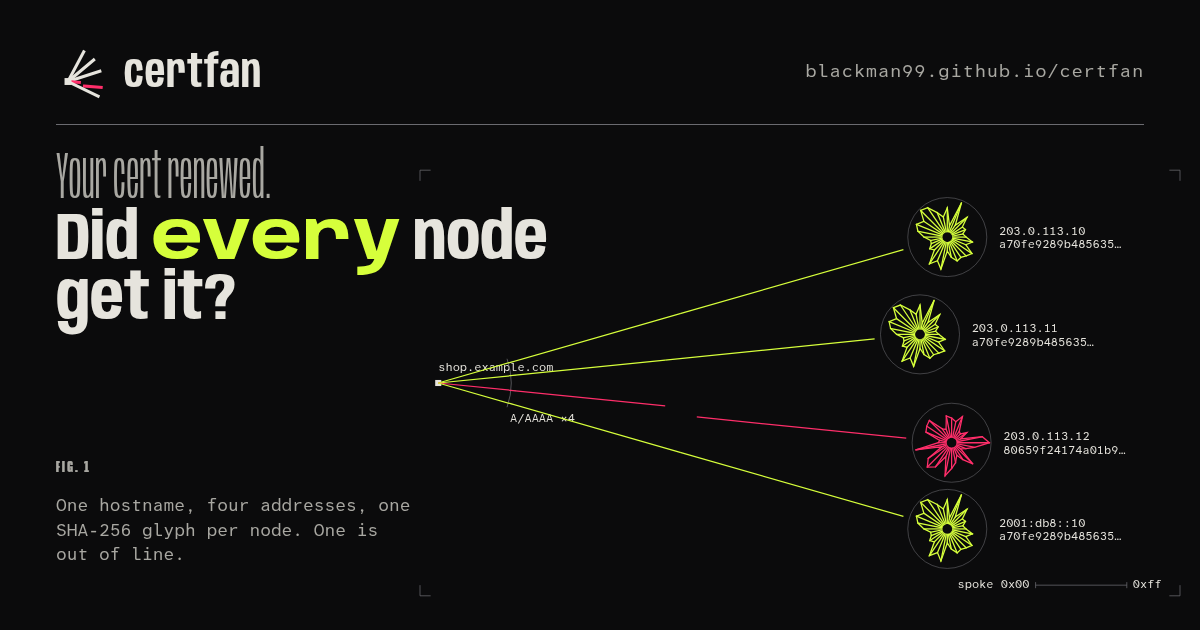
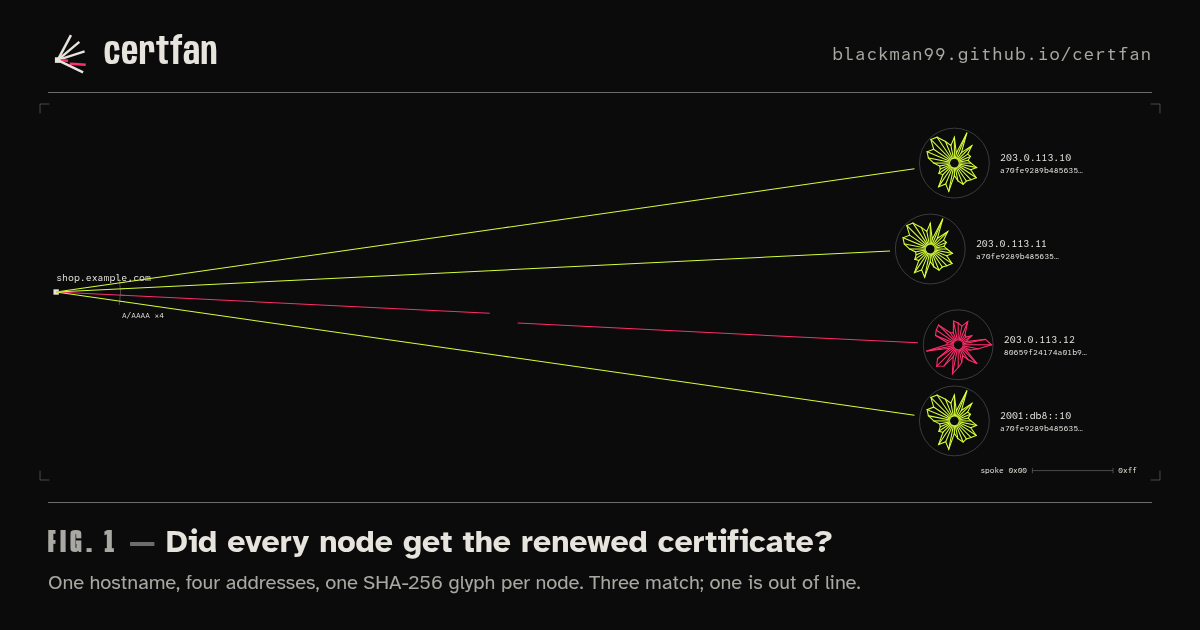
site: make Fig. 1 the first screen, replace the display headline with a figure caption
Structure only: the fan chart fills the first viewport on desktop and mobile; the h1 is now the
caption 'Fig. 1 — Did every node get the renewed certificate?' set in caption type below the plot.
OG / social preview follow the same structure.

diff --git a/site/style.css b/site/style.css
@@ -29,18 +29,8 @@ code,.mono{font-family:var(--mono);font-size:.92em}
 .top .meta{grid-column:4/10;margin:0;font:400 13px/1 var(--mono);color:var(--dim);letter-spacing:.04em}
 .top nav{grid-column:10/13;justify-self:end;display:flex;gap:28px;font-size:15px}
 
-/* lead */
-.lead{padding-top:36px;padding-bottom:20px;align-items:end}
-h1{grid-column:1/10;margin:0;font-family:var(--display);font-weight:300;line-height:.9;letter-spacing:-.005em;font-size:clamp(44px,6vw,96px)}
-h1 .l1{display:block;font-stretch:56%;font-weight:250;color:var(--dim)}
-h1 .l2{display:block;font-stretch:78%;font-weight:720}
-.every{display:inline-block;font-stretch:var(--every,100%);color:var(--lime);transition:font-stretch .9s cubic-bezier(.2,.7,.2,1)}
-.meta2{grid-column:10/13;justify-self:end;text-align:right;margin:0 0 6px;font-size:13px;line-height:1.5;color:var(--dim)}
-.cap .dek{font-size:17px;margin-bottom:16px}
-
 /* plates */
 .plate{margin:0;padding-top:28px;padding-bottom:48px;border-top:1px solid var(--graphite);position:relative}
-.lead+.plate{border-top:0}
 .cap{grid-column:1/4;font-size:15px;line-height:1.5;padding-right:8px}
 .cap p{margin:0 0 12px}
 .cap h2{font:700 30px/1.05 var(--display);font-stretch:96%;margin:0 0 14px}
@@ -55,11 +45,25 @@ h1 .l2{display:block;font-stretch:78%;font-weight:720}
 button{font:500 14px/1 var(--mono);color:var(--bone);background:none;border:1px solid var(--bone);padding:10px 14px;cursor:pointer;border-radius:0}
 button:hover{border-color:var(--lime);color:var(--lime)}
 
-/* fig 1 */
-#fan{aspect-ratio:1000/560}
-#fan svg,#lanes svg{display:block;width:100%;height:100%;overflow:visible}
+/* fig 1: the plate is the first screen */
+.hero{border-top:0;padding-top:16px;padding-bottom:40px;grid-template-rows:calc(100vh - 64px - 16px - var(--caph)) auto auto}
+@supports (height:100svh){.hero{grid-template-rows:calc(100svh - 64px - 16px - var(--caph)) auto auto}}
+.hero{--caph:158px}
+.hero>.plot{grid-column:1/13;grid-row:1;min-height:360px}
+#fan svg{position:absolute;inset:0;display:block;width:100%;height:100%;overflow:visible}
+#lanes svg{display:block;width:100%;height:100%;overflow:visible}
+.hero>.cap{grid-column:1/9;grid-row:2;padding-top:18px;border-top:1px solid var(--graphite)}
+.hero>.readout{grid-column:9/13;grid-row:2;padding-top:18px;border-top:1px solid var(--graphite);display:flex;gap:20px;align-items:flex-start;justify-content:space-between}
+.hero .verdict{margin:0;flex:1;max-width:44ch}
+.hero h1{margin:0 0 6px;font:700 19px/1.35 var(--text);letter-spacing:0}
+.fn-inline{font:800 19px/1 var(--display);font-stretch:52%;letter-spacing:.14em;text-transform:uppercase;color:var(--dim)}
+.dash{color:var(--graphite)}
+.hero .cap p{margin:0 0 8px;max-width:78ch}
+.hero .cap .one{font-size:16px}
+.hero .cap .read{font-size:14px;color:var(--dim)}
+.hero .legend{grid-row:3;grid-column:1/13}
 svg text{font-family:var(--mono);fill:var(--bone)}
-.legend{grid-column:4/13;list-style:none;margin:20px 0 0;padding:0;font-size:13px;display:grid;grid-template-columns:repeat(auto-fill,minmax(250px,1fr));column-gap:var(--gut);row-gap:6px}
+.legend{grid-column:4/13;list-style:none;margin:24px 0 0;padding:0;font-size:13px;display:grid;grid-template-columns:repeat(auto-fill,minmax(250px,1fr));column-gap:var(--gut);row-gap:6px}
 .legend li{display:grid;grid-template-columns:auto 1fr;column-gap:10px;border-top:1px solid #2a2a2d;padding-top:6px}
 .legend .ip{color:var(--bone)}
 .legend .hx{grid-column:1/3;color:var(--dim);word-break:break-all;letter-spacing:.02em}
@@ -110,15 +114,18 @@ footer .colo{grid-column:8/13;justify-self:end;font-size:13px}
   .brand{grid-column:1/7}
   .top .meta{display:none}
   .top nav{grid-column:7/13;gap:18px}
-  .lead{padding-top:36px}
-  h1{grid-column:1/13;font-size:clamp(40px,12.4vw,64px)}
-  .meta2{display:none}
+  .hero{--caph:150px;padding-top:8px;grid-template-rows:calc(100vh - 56px - 8px - var(--caph)) auto auto auto}
+  @supports (height:100svh){.hero{grid-template-rows:calc(100svh - 56px - 8px - var(--caph)) auto auto auto}}
+  .hero>.plot{min-height:420px;margin-bottom:0}
+  .hero>.cap{grid-column:1/13;grid-row:2;padding-top:14px}
+  .hero h1,.fn-inline{font-size:17px}
+  .hero .cap .one{font-size:15px}
+  .hero>.readout{grid-column:1/13;grid-row:3;border-top:0;padding-top:8px;flex-direction:column;gap:12px}
+  .hero .legend{grid-row:4}
   .cap,.plot,.legend{grid-column:1/13}
   .plate{padding-top:28px}
   .plot{margin-bottom:20px}
-  #fig1 .plot{order:-1}
   .cap+.plot{margin-top:8px}
-  #fan{aspect-ratio:360/400}
   .legend{order:1;grid-template-columns:1fr}
   #lanes{aspect-ratio:360/300}
   .matrix .how{display:none}

diff --git a/.og/og.html b/.og/og.html
@@ -1,35 +1,34 @@
 <!doctype html><html><head><meta charset="utf-8">
-<!-- Render: headless Chrome at 1200x630 (og-image / og-docs, ?docs for the docs variant) or 1280x640 (social preview). -->
+<!-- Render: headless Chrome at 1200x630 (og-image / og-docs, ?docs for the docs variant) or 1280x640 (social preview).
+     Same structure as the landing page: Fig. 1 fills the plate, caption below it (no display headline). -->
 <style>
 @font-face{font-family:"Anybody";src:url(../site/fonts/anybody-wdth.woff2) format("woff2");font-weight:100 900;font-stretch:50% 150%}
+@font-face{font-family:"AH";src:url(../site/fonts/atkinson-400.woff2) format("woff2");font-weight:400}
+@font-face{font-family:"AH";src:url(../site/fonts/atkinson-700.woff2) format("woff2");font-weight:700}
 @font-face{font-family:"AHM";src:url(../site/fonts/atkinson-mono-400.woff2) format("woff2")}
 html,body{margin:0;width:100vw;height:100vh;overflow:hidden;background:#0b0b0c;color:#e6e4dd}
 svg text{font-family:"AHM",monospace;fill:#e6e4dd}
-.brand{position:absolute;left:56px;top:48px;display:flex;align-items:center;gap:16px;font:650 46px/1 "Anybody";font-stretch:72%;letter-spacing:.02em}
-.brand img{width:52px;height:52px}
-.tag{position:absolute;right:56px;top:62px;font:400 18px/1 "AHM";color:rgba(230,228,221,.72);letter-spacing:.04em}
-h1{position:absolute;left:56px;top:150px;margin:0;font-family:"Anybody";line-height:.92;font-size:66px}
-h1 .l1{display:block;font-stretch:56%;font-weight:250;color:rgba(230,228,221,.72)}
-h1 .l2{display:block;font-stretch:78%;font-weight:720}
-h1 .every{font-stretch:116%;color:#d6ff3b}
-.fig{position:absolute;right:20px;bottom:34px;width:760px;height:426px}
-.ray,.spoke,.ring{fill:none}.fig .spoke{stroke-width:1.7}.fig .ray{stroke-width:1.6}.fig text{font-size:15px}
+.ray,.spoke,.ring{fill:none}.fig .spoke{stroke-width:1.6}.fig .ray{stroke-width:1.5}
+.top{position:absolute;left:48px;right:48px;top:30px;height:48px;display:flex;align-items:center;justify-content:space-between;border-bottom:1px solid #6b6b70;padding-bottom:14px}
+.brand{display:flex;align-items:center;gap:14px;font:650 38px/1 "Anybody";font-stretch:72%;letter-spacing:.02em}
+.brand img{width:42px;height:42px}
+.tag{font:400 17px/1 "AHM";color:rgba(230,228,221,.72);letter-spacing:.04em}
+.fig{position:absolute;left:40px;right:40px;top:104px;bottom:150px}
 .fig svg{width:100%;height:100%;overflow:visible}
-.fn{position:absolute;left:56px;bottom:138px;font:800 16px/1 "Anybody";font-stretch:52%;letter-spacing:.14em;color:rgba(230,228,221,.72)}
-.cap{position:absolute;left:56px;bottom:46px;width:360px;font:400 17px/1.45 "AHM";color:rgba(230,228,221,.72)}
-.url{position:absolute;left:56px;bottom:24px;font:400 15px/1 "AHM";color:#6b6b70;display:none}
-.rule{position:absolute;left:56px;right:56px;top:124px;height:1px;background:#6b6b70}
+.cap{position:absolute;left:48px;right:48px;bottom:34px;border-top:1px solid #6b6b70;padding-top:20px}
+.cap h1{margin:0 0 8px;font:700 32px/1.2 "AH"}
+.fn{font:800 32px/1 "Anybody";font-stretch:52%;letter-spacing:.14em;color:rgba(230,228,221,.72)}
+.dash{color:#6b6b70}
+.cap p{margin:0;font:400 20px/1.35 "AH";color:rgba(230,228,221,.72)}
 </style></head><body>
-<div class="brand"><img src="../site/favicon.svg" alt="">certfan</div>
-<div class="tag" id="tag">blackman99.github.io/certfan</div>
-<div class="rule"></div>
-<h1><span class="l1">Your cert renewed.</span><span class="l2">Did <span class="every">every</span> node<br>get it?</span></h1>
-<p class="fn">FIG. 1</p>
-<p class="cap" id="cap">One hostname, four addresses, one SHA-256 glyph per node. One is out of line.</p>
+<div class="top"><div class="brand"><img src="../site/favicon.svg" alt="">certfan</div><div class="tag" id="tag">blackman99.github.io/certfan</div></div>
 <div class="fig" id="fig"></div>
+<div class="cap"><h1><span class="fn">FIG. 1</span> <span class="dash">—</span> Did every node get the renewed certificate?</h1>
+<p>One hostname, four addresses, one SHA-256 glyph per node. Three match; one is out of line.</p></div>
 <script src="../site/app.js"></script>
 <script>
-certfanFan(document.getElementById("fig"), 0, 2, false);
-if (location.search.includes("docs")) { document.getElementById("tag").textContent = "certfan docs"; }
+const box = document.getElementById("fig");
+certfanFan(box, 0, 2, { W: Math.max(1000, Math.round(560 * box.clientWidth / box.clientHeight)) });
+if (location.search.includes("docs")) document.getElementById("tag").textContent = "certfan docs";
 </script>
 </body></html>

diff --git a/site/app.js b/site/app.js
@@ -30,7 +30,7 @@
   // ---------- Fig. 1: fan chart ----------
   function fan(box, sc, bad, opt) {
     const vertical = !!opt.vertical;
-    const W = vertical ? 360 : 1000, H = vertical ? 400 : 560;
+    const W = vertical ? 360 : (opt.W || 1000), H = vertical ? (opt.H || 400) : 560;
     const n = sc.nodes.length;
     box.textContent = "";
     const svg = el("svg", { viewBox: `0 0 ${W} ${H}`, "aria-hidden": "true" }, box);
@@ -43,13 +43,13 @@
     if (vertical) {
       const span = W - 24, step = span / n;
       R = Math.min(30, step / 2 - 5);
-      for (let i = 0; i < n; i++) pos.push([12 + step * (i + .5), 290 + Math.abs(i - (n - 1) / 2) * -10]);
+      for (let i = 0; i < n; i++) pos.push([12 + step * (i + .5), H - 110 + Math.abs(i - (n - 1) / 2) * -10]);
     } else {
       const step = (H - 48) / n;
       R = Math.min(52, step / 2 - 12);
       for (let i = 0; i < n; i++) {
         const y = 24 + step * (i + .5);
-        pos.push([640 + Math.abs(y - H / 2) * .28, y]);
+        pos.push([W - 360 + Math.abs(y - H / 2) * .28, y]);
       }
     }
     // host label
@@ -119,14 +119,13 @@
       if (nd.isBad) nd.slip.setAttribute("transform", nd.slipT);
     });
   }
-  window.certfanFan = (box, i, bad, vertical) => { const f = fan(box, SCEN[i], bad, { vertical }); finalState(f); return f; };
+  window.certfanFan = (box, i, bad, opt) => { const f = fan(box, SCEN[i], bad, opt || {}); finalState(f); return f; };
 
   const fanBox = document.getElementById("fan");
   if (!fanBox) return; // OG render mode
   const reduce = matchMedia("(prefers-reduced-motion: reduce)");
   const narrow = matchMedia("(max-width: 760px)");
   const legend = document.getElementById("legend"), verdict = document.getElementById("verdict");
-  const every = document.getElementById("every");
   let cur = { s: 0, bad: 2 }, timers = [], fig = null;
   const later = (fn, ms) => timers.push(setTimeout(fn, ms));
 
@@ -152,14 +151,19 @@
     verdict.classList.add("fail");
   }
 
+  function dims() {
+    const w = fanBox.clientWidth || 1000, h = fanBox.clientHeight || 560, vertical = narrow.matches;
+    const o = vertical ? { vertical, H: Math.max(400, Math.round(360 * h / w)) } : { vertical, W: Math.max(1000, Math.round(560 * w / h)) };
+    o.key = (vertical ? "v" : "h") + (o.H || o.W);
+    return o;
+  }
   function run(animate) {
     timers.forEach(clearTimeout); timers = [];
     const sc = SCEN[cur.s], bad = cur.bad, n = sc.nodes.length;
     document.getElementById("host").textContent = sc.host;
     document.getElementById("count").textContent = n;
-    every.style.setProperty("--every", (58 + n * 14) + "%");
     verdict.classList.remove("fail");
-    fig = fan(fanBox, sc, bad, { vertical: narrow.matches });
+    fig = fan(fanBox, sc, bad, dims());
     if (!animate || reduce.matches) {
       finalState(fig);
       settleLegend(buildLegend(sc, bad, true), sc, bad);
@@ -208,7 +212,12 @@
     cur = { s, bad: Math.floor(Math.random() * SCEN[s].nodes.length) };
     run(true);
   });
-  narrow.addEventListener("change", () => run(false));
+  // the plate fills the first viewport: re-fit the viewBox to the box when it changes shape
+  let lastKey = dims().key, rt = 0;
+  addEventListener("resize", () => {
+    clearTimeout(rt);
+    rt = setTimeout(() => { const k = dims().key; if (k !== lastKey) { lastKey = k; run(false); } }, 150);
+  });
   run(true);
 
   // ---------- Fig. 3: lanes over 50 days ----------

diff --git a/site/index.html b/site/index.html
@@ -41,21 +41,17 @@
 </header>
 
 <main>
-<section class="lead g" aria-labelledby="h">
-  <h1 id="h"><span class="l1">Your cert renewed.</span> <span class="l2">Did <span id="every" class="every">every</span> node get&nbsp;it?</span></h1>
-  <p class="meta2 mono">certfan · a zero-dependency CLI<br>for every address behind a TLS name</p>
-</section>
-
-<figure class="plate g" id="fig1" aria-labelledby="f1c">
-  <figcaption id="f1c" class="cap">
-    <p class="fn"><span>Fig.</span>&nbsp;1</p>
-    <p class="dek">certfan resolves <b>every</b> A/AAAA address behind a hostname, handshakes each one with the right SNI, and fails when they don’t all serve the same valid, not-nearly-expired certificate.</p>
-    <p><b id="host">shop.example.com</b> resolves to <span id="count">4</span> addresses. Each ray ends in a glyph drawn from the SHA-256 of the certificate that address served: 32 spokes, one per byte, length = byte value.</p>
-    <p>Same certificate, same glyph. <span class="k ok">lime</span> = consistent; <span class="k bad">pink</span> = the odd one out.</p>
+<figure class="plate hero g" id="fig1" aria-labelledby="h">
+  <div class="plot" id="fan" role="img" aria-label="Fan chart: the hostname fans out to each resolved address; one address serves a different certificate and its ray breaks out of line."></div>
+  <figcaption class="cap">
+    <h1 id="h"><span class="fn-inline">Fig.&nbsp;1</span> <span class="dash" aria-hidden="true">—</span> Did every node get the renewed certificate?</h1>
+    <p class="one">certfan resolves every A/AAAA address behind a hostname, handshakes each one with the right SNI, and fails when they don’t all serve the same valid, not-nearly-expired certificate.</p>
+    <p class="read"><b id="host">shop.example.com</b> → <span id="count">4</span> addresses. Glyph = SHA-256 of the certificate each address served, one spoke per byte. <span class="k ok">lime</span> consistent, <span class="k bad">pink</span> the odd one out.</p>
+  </figcaption>
+  <div class="readout">
     <p id="verdict" class="verdict" aria-live="polite">resolving…</p>
     <button id="again" type="button">Re-resolve ↻</button>
-  </figcaption>
-  <div class="plot" id="fan" role="img" aria-label="Fan chart: the hostname fans out to each resolved address; one address serves a different certificate and its ray breaks out of line."></div>
+  </div>
   <ol class="legend mono" id="legend" aria-label="Addresses and fingerprints"></ol>
 </figure>
 

diff --git a/site/DESIGN.md b/site/DESIGN.md
@@ -37,8 +37,8 @@ Secondary text that must stay readable uses bone at 72% opacity (renders ≈ `#a
 graphite is reserved for non-text strokes and large tick labels.
 
 ## Type (self-hosted, all SIL OFL 1.1, from Fontsource)
-- **Anybody** (variable, `wdth` 50–150 %, `wght` 100–900): display. Width is data-driven: the word "every"
-  in the headline stretches with the number of resolved addresses; figure numbers are set ultra-condensed.
+- **Anybody** (variable, `wdth` 50–150 %, `wght` 100–900): wordmark, section titles and figure numbers
+  (ultra-condensed "FIG. 1"). There is no display headline (see Layout).
 - **Atkinson Hyperlegible** 400/700: body and captions.
 - **Atkinson Hyperlegible Mono** 400/500: fingerprints (hex), addresses, commands, Table 1.
 
@@ -48,14 +48,20 @@ All figures are inline SVG built by ~10 kB of vanilla JS from hard-coded SHA-256
 (four scenarios; "Re-resolve" picks another at random). No framework, no canvas library.
 
 ## Layout
-Full-bleed asymmetric 12-column grid (40 px outer margin, 24 px gutter). Headline spans cols 1–9, run-in
-plate metadata sits in cols 10–12. Each figure: caption + data legend in a margin column (cols 1–3),
-plot in cols 4–12, framed only by graphite corner ticks and axis hairlines. On ≤ 760 px everything stacks to
-one column, the fan rotates to fan downward, captions follow the plot.
-- Fig. 1 fan chart (hero, interactive).
-- Fig. 2 comparison matrix: what a single-IP check sees vs what certfan checks (marks, not cards).
-- Fig. 3 lane plot: certificate served per node over 50 days of a renewal; the stale lane breaks.
-- Table 1 sample output, then install command.
+Revised 2026-10-10 (structure only): certfan, linelore and runbill all opened with a big bold question headline
+at top-left, so certfan no longer has a display headline. **Fig. 1 is the first screen.**
+- Header rule (wordmark, plate metadata, Docs/GitHub), then the Fig. 1 fan chart spanning all 12 columns and
+  filling the rest of the first viewport (`100svh` minus header and caption strip). The SVG viewBox is re-fitted
+  to the box's aspect (desktop widens, mobile lengthens) so the plot, not a frame around it, fills the screen.
+- Directly under the plot, a caption strip in caption typography: the page's `h1` *is* the figure caption,
+  "Fig. 1 — Did every node get the renewed certificate?" (Atkinson Hyperlegible 700, 19 px, with the "FIG. 1"
+  label in ultra-condensed Anybody), then one sentence of explanation and a one-line reading key (cols 1–8).
+  The FAIL readout and the Re-resolve control sit beside it (cols 9–12); the per-address legend follows below.
+- Below the fold, unchanged: full-bleed asymmetric 12-column grid (40 px margin, 24 px gutter); each later figure
+  has caption + data in a margin column (cols 1–3) and plot in cols 4–12, framed only by graphite corner ticks.
+  On ≤ 760 px everything stacks to one column; the fan rotates to fan downward and still fills the first screen,
+  caption directly under it.
+- Fig. 2 comparison matrix · Fig. 3 lane plot (50 days of a renewal) · Table 1 sample output + install.
 
 ## Motion (precise, rhythmic, no bounce; linear / ease-out only)
 1. Resolve: the fan's hairlines draw out from the hostname point (stroke-dashoffset), 90 ms stagger.
@@ -72,8 +78,9 @@ displaced. No rounded app-icon tile, no outline cartoon. Same construction in `f
 for 16 px), `logo.svg`, `logo-512.png`, OG images and the GitHub social preview.
 
 ## OG / social preview
-Black plate, the Fig. 1 fan chart in its final compared state, the `certfan` wordmark in wide Anybody and one
-line: "Your cert renewed. Did every node get it?" (1200×630 `og-image.png`, `docs/assets/og-docs.png`;
+Same structure as the page: small `certfan` wordmark rule at the top, the Fig. 1 fan chart (final compared
+state) filling the plate, and a caption strip below it: "FIG. 1 — Did every node get the renewed certificate?"
+plus one line of explanation. No top-left display headline. (1200×630 `og-image.png`, `docs/assets/og-docs.png`;
 1280×640 `social-preview.png` / `og-social-preview.png`).
 
 ## Difference self-check against design/registry.md
@@ -84,7 +91,7 @@ line: "Your cert renewed. Did every node get it?" (1200×630 `og-image.png`, `do
 | type | Anybody + Atkinson Hyperlegible (+ Mono) | runbill Unbounded + Red Hat; linelore Schibsted | yes: no shared family, no typewriter, no slab |
 | texture | flat hairlines, no texture | linelore flat but typographic; runbill flat-shaded 3D | yes: line-art data plot |
 | rendering | generative SVG from fingerprint bytes | agentckpt pixel canvas; runbill isometric | yes |
-| layout | full-bleed figure plate, margin captions | linelore Swiss grid with giant type; toolsmoke report page | yes: plot-led, not type-led, not paper |
+| layout | first screen = Fig. 1 chart, caption below; no display headline | linelore and runbill open with a big bold question headline top-left; toolsmoke report page | yes: plot-led, not type-led, not paper |
 | motion | ray draw → byte-by-byte glyph → compare & slip | toolsmoke type/stamp, linelore kinetic type, runbill falling blocks | yes: no printing/typing |
 | logo | 5-ray fan, one pink ray displaced, square black field | others: stamp wordmark, pixel flag, "l:42", iso cubes | yes |
 
